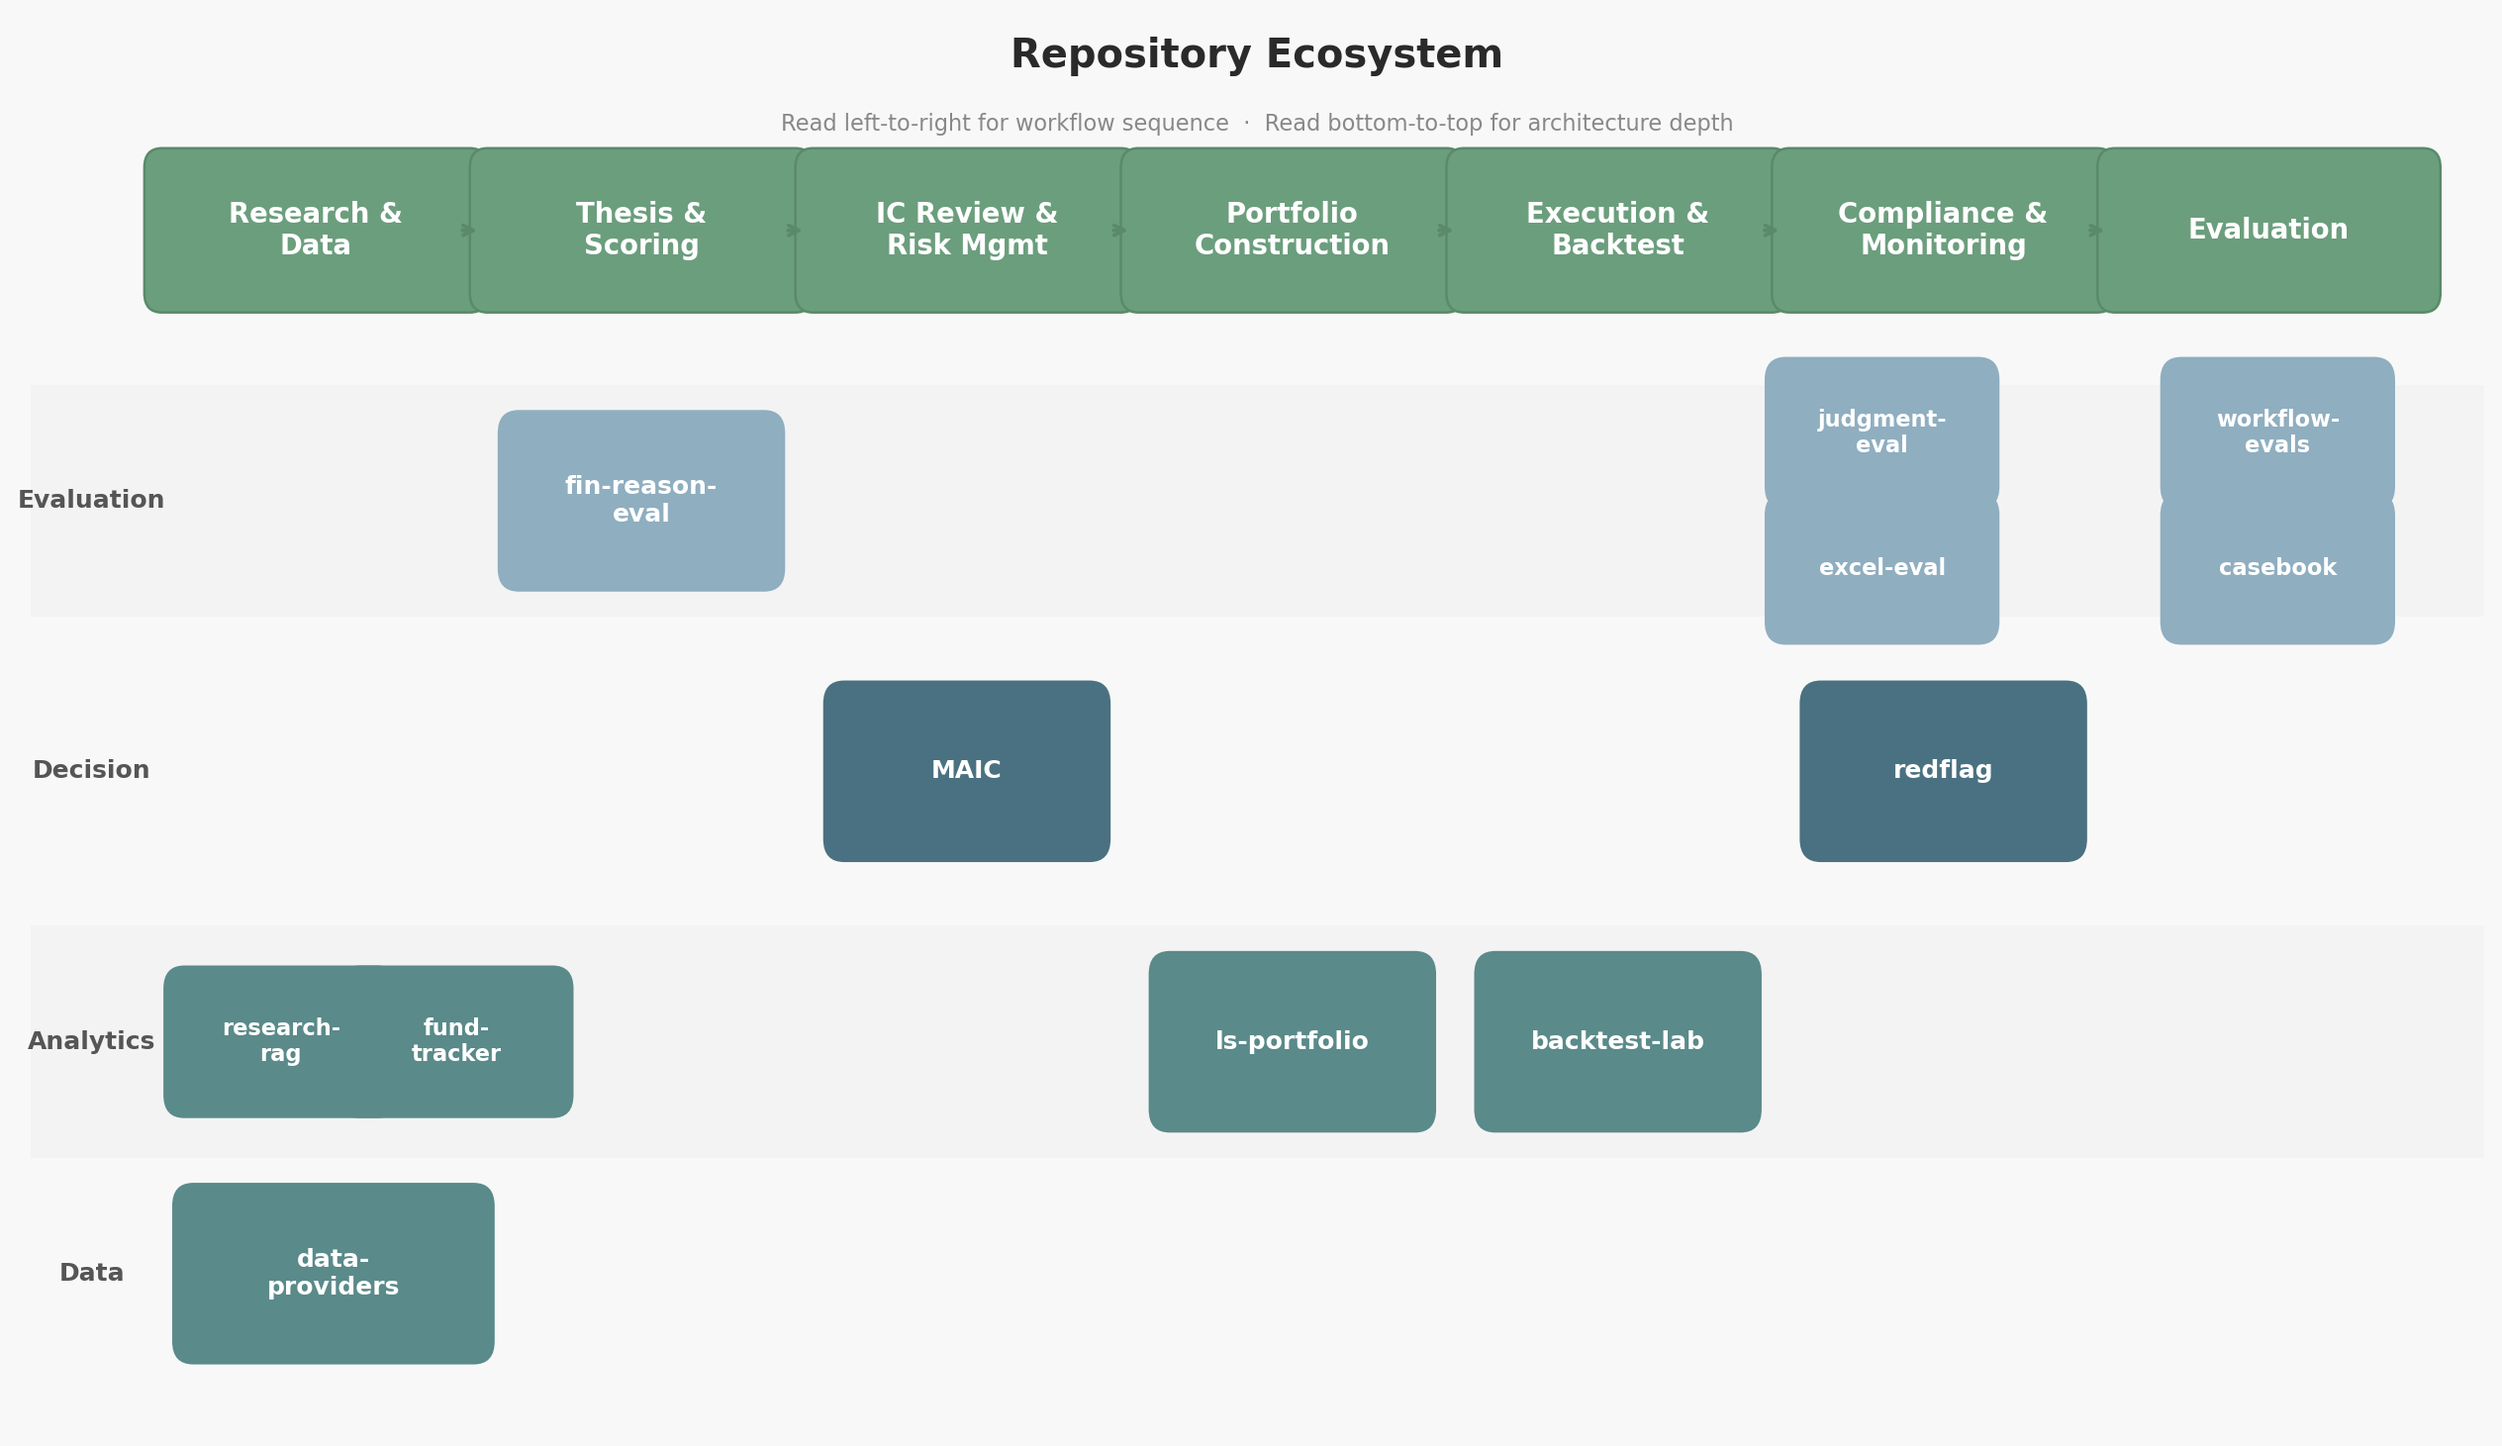
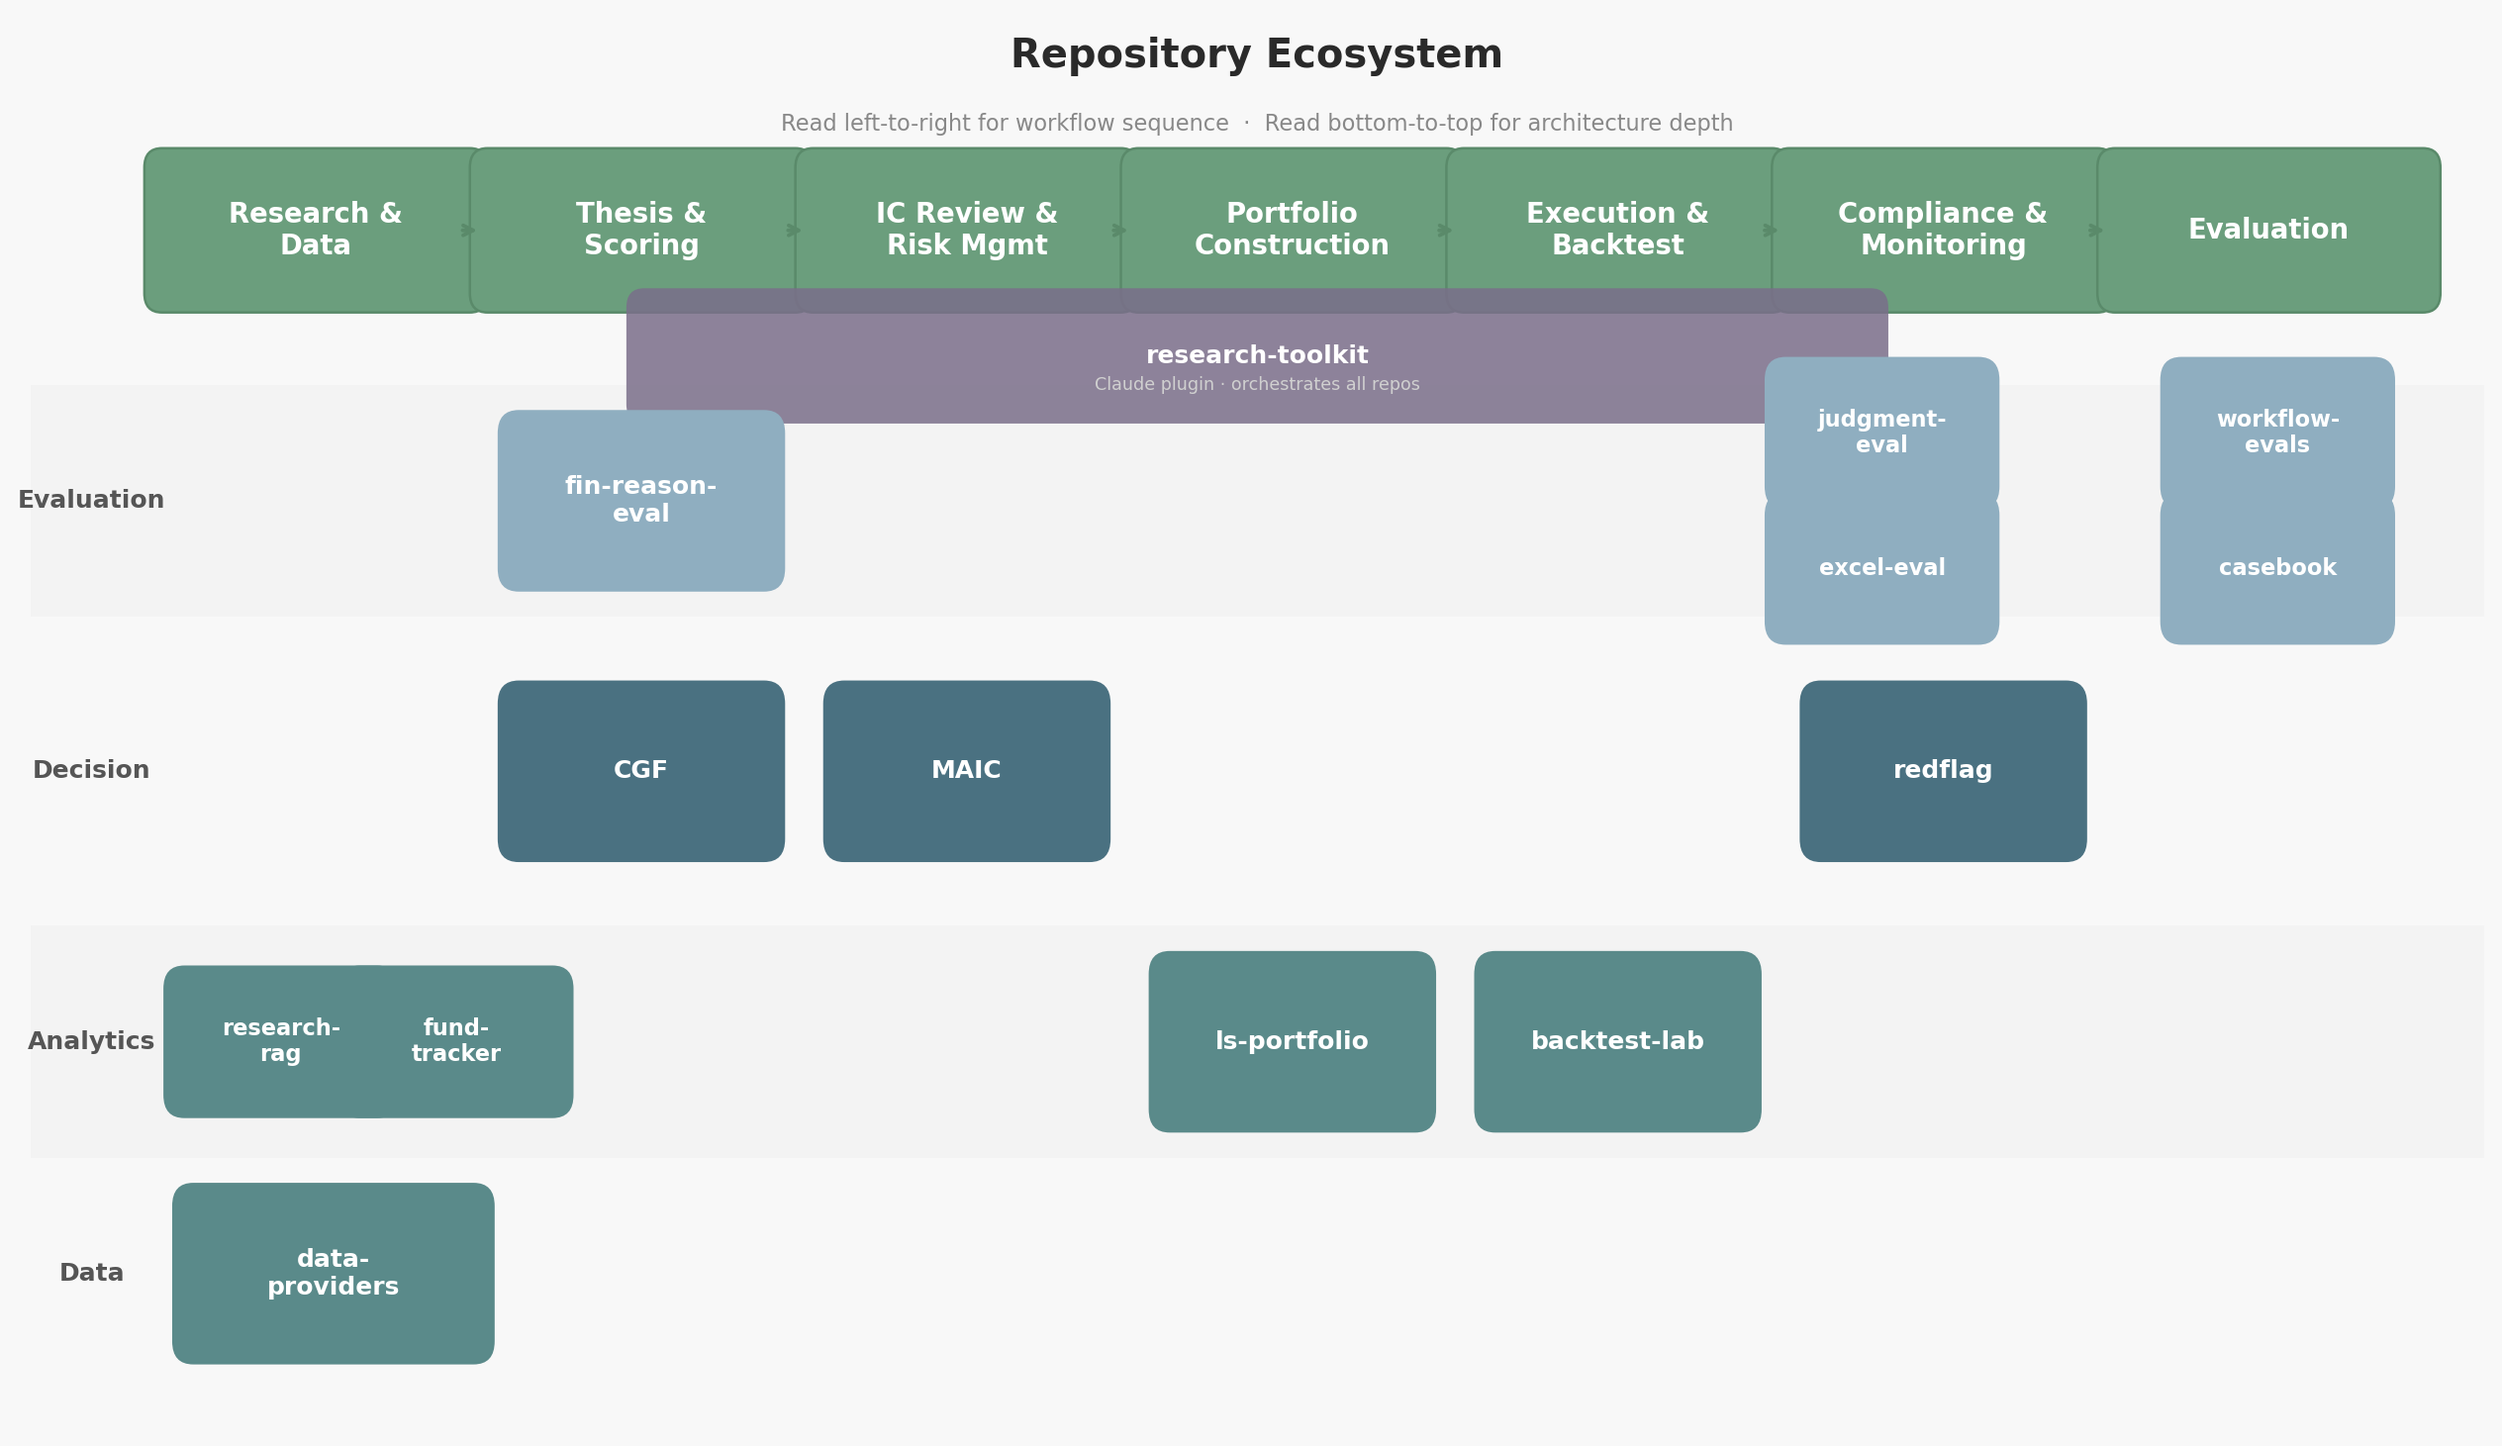
Update ecosystem graphic and README

Changed region(s): [[0.25, 0.1848, 0.7812, 0.308], [0.1875, 0.462, 0.3125, 0.616]]

diff --git a/generate_ecosystem.py b/generate_ecosystem.py
@@ -28,6 +28,7 @@ C_TITLE = "#2a2a2a"
 C_SUBTITLE = "#888888"
 C_ROW_BG_1 = "#f0f0f0"
 C_ROW_BG_2 = "#f8f8f8"
+C_ORCH = "#7a6e8a"          # muted purple for orchestration layer
 
 # ── Workflow columns (x-axis) ─────────────────────────────────────────
 columns = [
@@ -102,6 +103,25 @@ def repo_box(cx, cy, w, h, label, color, fontsize=10):
         ha="center", va="center",
     )
 
+# ── Orchestration layer (research-toolkit) ───────────────────────────
+orch_y = 6.45
+orch_rect = FancyBboxPatch(
+    (3.5, orch_y - 0.25), 7.0, 0.5,
+    boxstyle="round,pad=0.1",
+    facecolor=C_ORCH, edgecolor="none", linewidth=0, alpha=0.85,
+)
+ax.add_patch(orch_rect)
+ax.text(
+    7.0, orch_y, "research-toolkit",
+    fontsize=10, fontweight="bold", color=C_BOX_TEXT,
+    ha="center", va="center",
+)
+ax.text(
+    7.0, orch_y - 0.15, "Claude plugin · orchestrates all repos",
+    fontsize=7, color="#d0d0d0",
+    ha="center", va="center",
+)
+
 # ── Place repos in grid ──────────────────────────────────────────────
 box_w = 1.4
 box_h = 0.7
@@ -116,6 +136,7 @@ repo_box(col_centers[5] - 0.35, row_y[0] - 0.35, box_sm_w, box_sm_h, "excel-eval
 repo_box(col_centers[6] + 0.05, row_y[0] - 0.35, box_sm_w, box_sm_h, "casebook", C_EVAL, 9)
 
 # Row: Decision (y=3.8)
+repo_box(col_centers[1], row_y[1], box_w, box_h, "CGF", C_DECISION)
 repo_box(col_centers[2], row_y[1], box_w, box_h, "MAIC", C_DECISION)
 repo_box(col_centers[5], row_y[1], box_w, box_h, "redflag", C_DECISION)
 

diff --git a/README.md b/README.md
@@ -65,7 +65,7 @@ Evaluating and improving LLM performance on financial reasoning tasks — buildi
 * **Pipeline:** Section-aware document ingestion (10-K/10-Q structure detection); boilerplate filtering reclaiming 13–22% of tokens; K-ranking annotation mode extracting up to 36 pairwise comparisons per session; multi-provider generation (Claude, GPT-4o, Gemini).
 
 #### Multi-Agent Systems
-* **Investment Committee Simulation:** Four-agent system (analyst, devil's advocate, risk manager, PM) with structured debate rounds and configurable parameters.
+* **Investment Committee Simulation:** Five-agent system (long analyst, short analyst, risk manager, macro analyst, PM) with structured debate rounds and configurable parameters.
 * **Reasoning Traces:** THINK → PLAN → ACT → REFLECT loop with full trace visibility for evaluation and debugging.
 * **Output Signal:** Directional T-signal (direction × entropy-adjusted confidence) designed as RL input for downstream portfolio systems.
 
@@ -82,7 +82,7 @@ Evaluating and improving LLM performance on financial reasoning tasks — buildi
 
 ## Background
 
-Over 20 years institutional buy-side experience (PM/Analyst | L/S equity |SAC/Point72, WRC)). MBA Finance. MS Analytics & Modeling (ML/Deep Learning). Northwestern. CFA® Charterholder. 
+Over 20 years institutional buy-side experience (PM/Analyst | L/S equity | SAC/Point72, WRC). MBA Finance. MS Analytics & Modeling (ML/Deep Learning). Northwestern. CFA® Charterholder.
 
 
 ---
